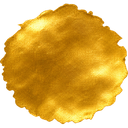
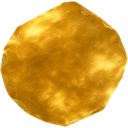
Canvas: updated gold and ink blot art
Claude-Session: https://claude.ai/code/session_01P3d8ZTZshbTSJw1MMxChow

diff --git a/sw.js b/sw.js
@@ -1,5 +1,5 @@
 /* Offline support. Bump VERSION whenever app files change so installed copies update. */
-var VERSION='gs-v55';
+var VERSION='gs-v56';
 var SHELL=['./','index.html','styles.css','app.js','manifest.webmanifest','icons/icon-192.png','icons/icon-512.png','icons/apple-touch-icon.png','art/library-light.png','art/library-dark.png','art/stroke-long-ink.png','art/stroke-long-gold.png','art/stroke-short-ink.png','art/stroke-short-gold.png','art/stroke-wave-ink.png','art/stroke-wave-gold.png','art/quill-ink.png','art/quill-gold.png','art/birch-trunk.png','art/vine.png','art/gold.png','art/blot.png'];
 self.addEventListener('install',function(e){
   e.waitUntil(caches.open(VERSION).then(function(c){return c.addAll(SHELL)}).then(function(){return self.skipWaiting()}));
